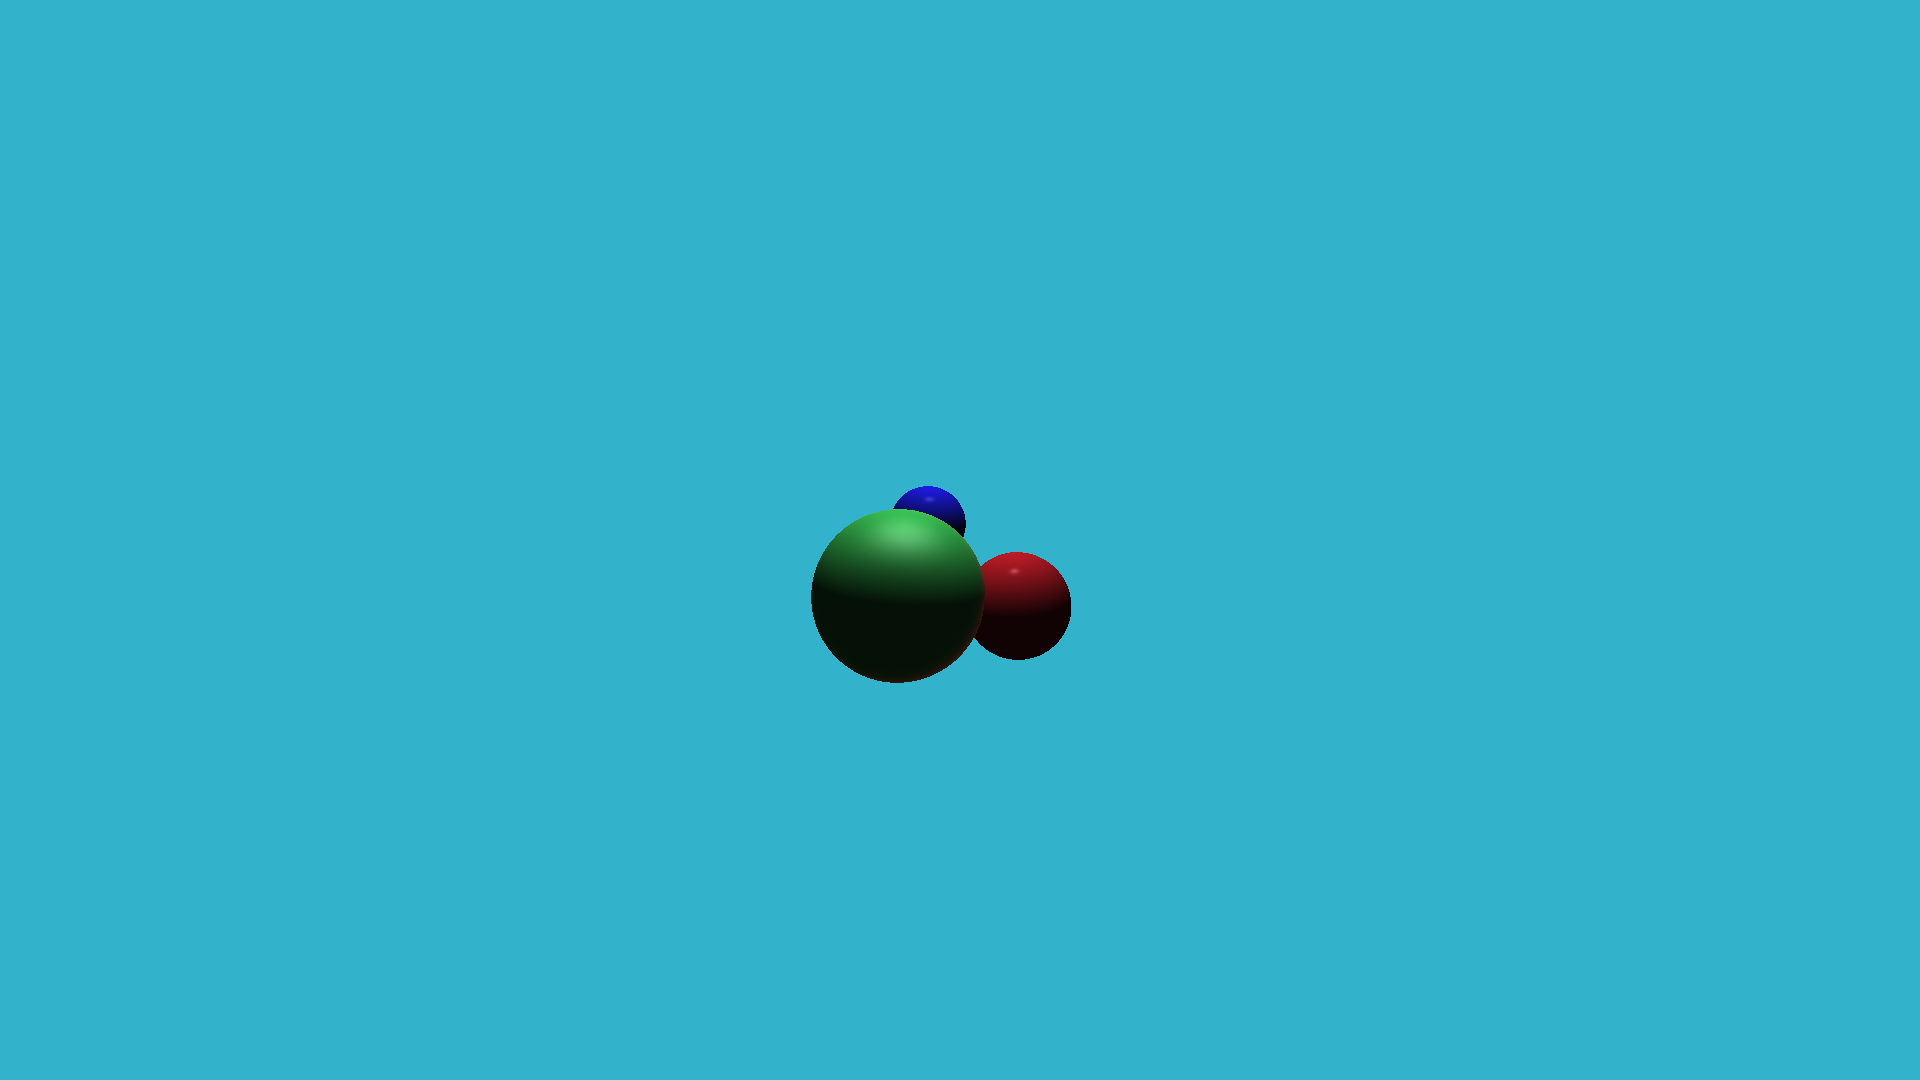
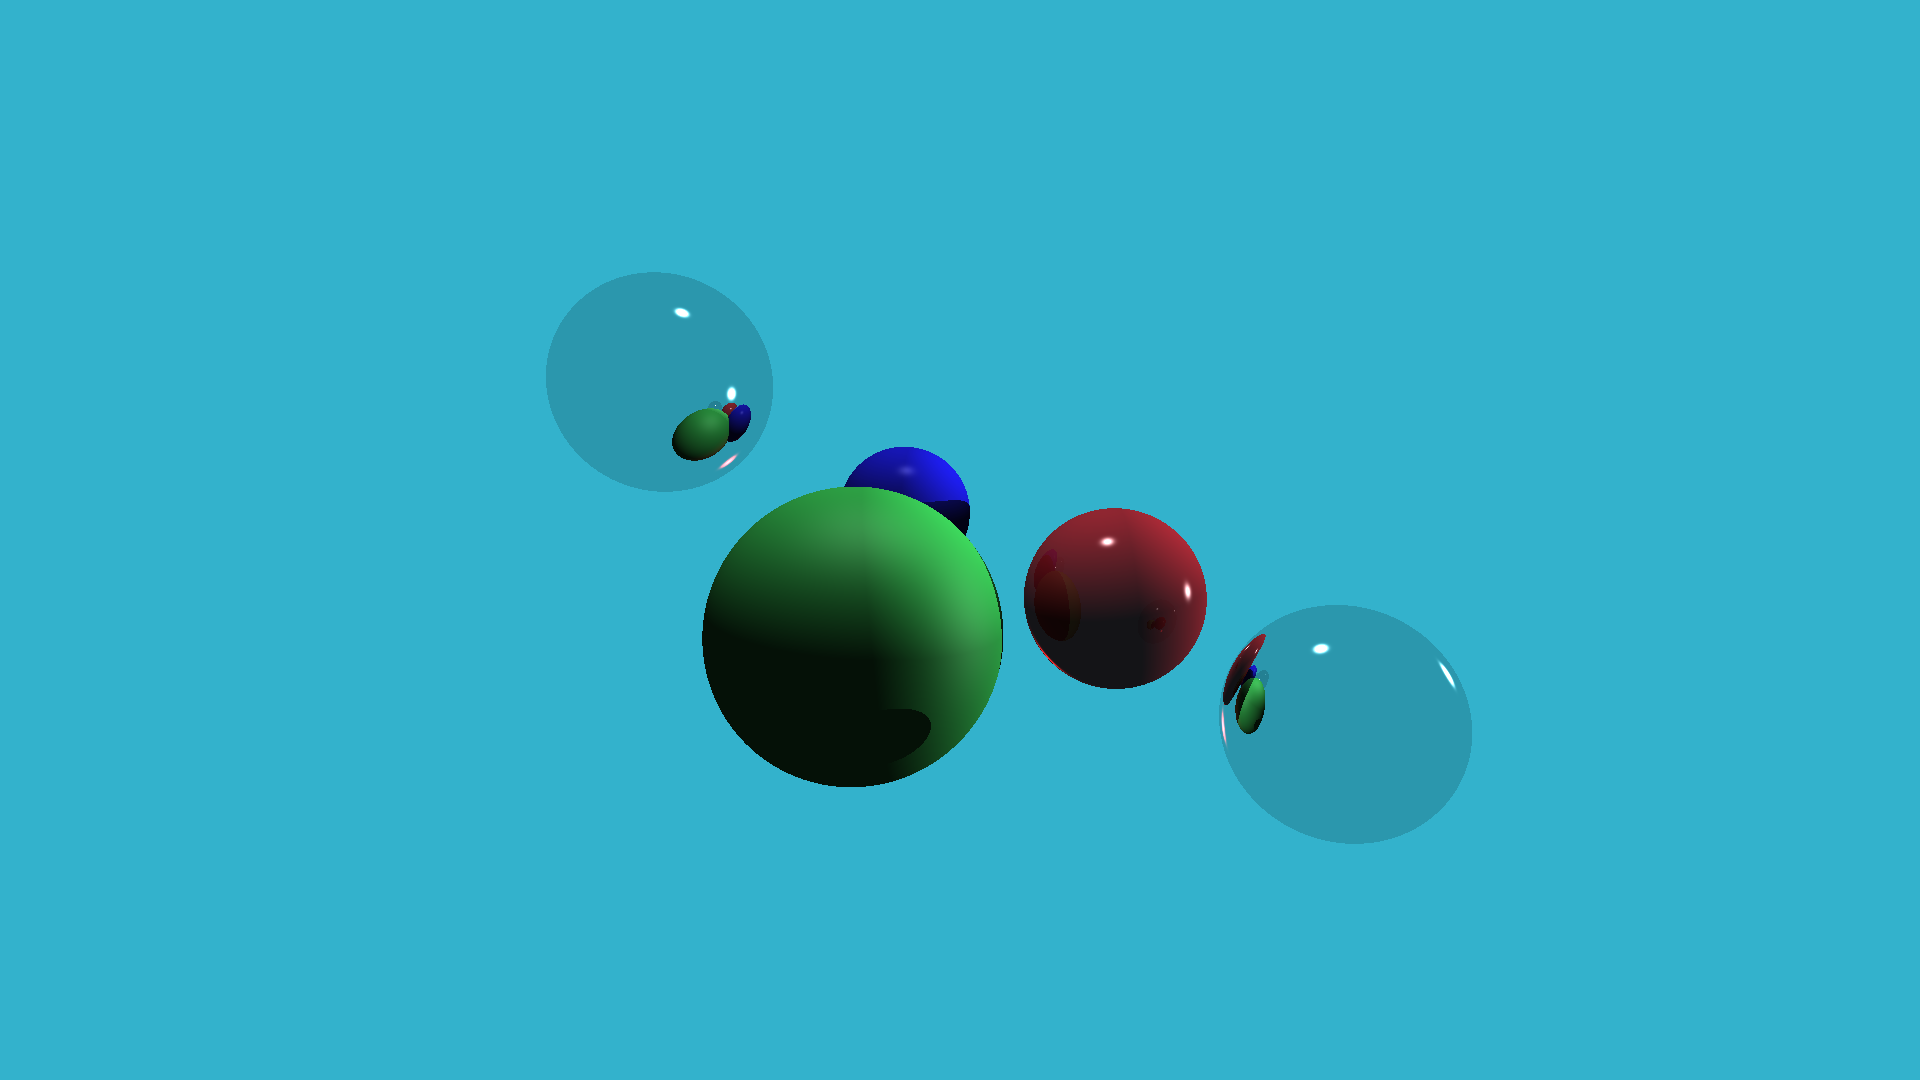
reflections

Changed region(s): [[0.3438, 0.3972, 0.7812, 0.7944], [0.2812, 0.2444, 0.4062, 0.4583]]

diff --git a/RayTracer.cpp b/RayTracer.cpp
@@ -16,39 +16,44 @@
 
 void RayTracer::initObjects() {
     
-    Material red_surface(Vector3f(0.67f, 0.1f, 0.14f), 1.0f, 125.0f, 0.2f);
-    Material green_surface(Vector3f(0.2f, 0.7f, 0.3f), 1.0f, 5.0f, 0.2f);
-    Material blue_surface(Vector3f(0.1f, 0.1f, 0.8f), 1.0f, 60.0f, 0.15f);
+    Material red_surface(Vector3f(0.67f, 0.1f, 0.14f), 1.0f, 200.0f, 1.5f, true, 0.1f);
+    Material green_surface(Vector3f(0.2f, 0.7f, 0.3f), 1.0f, 5.0f, 0.1f, false, 0.0f);
+    Material blue_surface(Vector3f(0.1f, 0.1f, 0.8f), 1.0f, 60.0f, 0.2f, false, 0.0f);
+    Material reflector_surface(Vector3f(0.0f, 0.0f, 0.0f), 0.0f, 500.0f, 5.0f, true, 0.85f);
 
-    this->objects.push_back(Primitive(Vector3f(-0.5f, 0.2f, 0.0f), 0.33f, red_surface));
+    this->objects.push_back(Primitive(Vector3f(-0.5f, 0.2f, 0.3f), 0.33f, red_surface));
     this->objects.push_back(Primitive(Vector3f(0.3f, 0.2f, 0.0f), 0.25f, blue_surface));
     this->objects.push_back(Primitive(Vector3f(0.0f, 0.0f, -0.5f), 0.5f, green_surface));
+
+    this->objects.push_back(Primitive(Vector3f(1.2f, -0.1f, -0.36f), 0.4f, reflector_surface));
+    this->objects.push_back(Primitive(Vector3f(-1.3f, -0.3f, 0.27f), 0.34f, reflector_surface));
 }
 
 void RayTracer::initCameras() {
 
-    Camera camera1(Vector3f(0.0f, 0.0f, 1.0f),
+    Camera camera1(Vector3f(0.0f, 0.0f, 2.0f),
                    Vector3f(0.0f, 0.0f, 0.0f),
-                   degreesToRadians(90.0f));
+                   degreesToRadians(60.0f));
 
     this->cameras.push_back(camera1);
 
     Camera camera2(Vector3f(-1.0f, -3.0f, -1.0f),
                    Vector3f(0.0f, 0.0f, 0.0f),
-                   degreesToRadians(90.0f));
+                   degreesToRadians(60.0f));
 
     this->cameras.push_back(camera2);
 
     Camera camera3(Vector3f(-1.0f, 3.0f, -2.0f),
         Vector3f(0.0f, 0.0f, 0.0f),
-        degreesToRadians(90.0f));
+        degreesToRadians(60.0f));
 
     this->cameras.push_back(camera3);
 }
 
 void RayTracer::initLights() {
-    this->lights.push_back(Light(Vector3f(2.0f, -2.0f, 2.0f), 1.0f, Vector3f(1.0f, 1.0f, 1.0f)));
-    this->lights.push_back(Light(Vector3f(0.0f, 3.0f, 0.0f), 1.0f, Vector3f(1.0f, 0.1f, 0.1f)));
+    this->lights.push_back(Light(Vector3f(2.0f, -2.2f, 2.0f), 0.8f, Vector3f(1.0f, 1.0f, 1.0f)));
+    this->lights.push_back(Light(Vector3f(0.0f, 3.0f, 0.0f), 0.8f, Vector3f(1.0f, 0.1f, 0.1f)));
+    this->lights.push_back(Light(Vector3f(-2.0f, 0.0f, 2.0f), 0.8f, Vector3f(1.0f, 1.0f, 1.0f)));
 }
 
 RayTracer::RayTracer(unsigned int width,
@@ -74,10 +79,11 @@ Primitive& RayTracer::detectNearestObject(const Ray& ray) {
     return objects[nearest_object_id];
 }
 
-Vector3f RayTracer::castRay(const Ray& ray) {
-    if (objects.empty()) {
-        return background_color;
-    }
+Vector3f reflect(const Vector3f& from_source, const Vector3f& normal) {
+    return (normal * 2.0f * (from_source * normal) - from_source).normalize();
+}
+
+Vector3f RayTracer::castRay(const Ray& ray, size_t depth = 0) {
 
     float distance;
     const Primitive& nearest_object = detectNearestObject(ray);
@@ -85,7 +91,7 @@ Vector3f RayTracer::castRay(const Ray& ray) {
         return background_color;
     }
 
-    Vector3f point = ray.start + ray.direction * distance;
+    Vector3f point = ray.start + ray.direction * (distance - EPS);
     Vector3f normal = nearest_object.figure->getNormal(ray.start, ray.direction, distance);
     Vector3f view_dir = -ray.direction;
 
@@ -95,23 +101,55 @@ Vector3f RayTracer::castRay(const Ray& ray) {
     Vector3f specular(0.0f, 0.0f, 0.0f);
 
     for (size_t i = 0; i < lights.size(); ++i) {
+
+        Vector3f light_segment = point - lights[i].position;
         Vector3f light_dir = (lights[i].position - point).normalize();
+
+        float distance = sqrtf(light_segment * light_segment);
+        float intersect_dist = std::numeric_limits<float>::max();
+
+        bool in_shadow = false;
+
+        for (size_t j = 0; j < objects.size(); j++) {
+            objects[j].figure->processRayIntersect(lights[i].position, -light_dir, intersect_dist);
+
+            if (intersect_dist < distance) {
+                in_shadow = true;
+                break;
+            }
+        }
+
+        if (in_shadow) continue;
+
 
         float diff_intensity = std::max(0.0f, light_dir * normal);
         
-        Vector3f reflect_dir = (normal * 2.0f * (normal * light_dir) - light_dir).normalize();
+        Vector3f reflect_dir = reflect(light_dir, normal);
         float spec_intensity = std::pow(std::max(0.0f, reflect_dir * view_dir), nearest_object.material.specular_power);
 
         diffuse += lights[i].color * lights[i].intensity * diff_intensity;
         specular += lights[i].color * lights[i].intensity * spec_intensity;
     }
 
-    Vector3f result_color =
-        ambient +
-        compMult(nearest_object.material.color, diffuse) * nearest_object.material.k_diffuse +
-        specular * nearest_object.material.k_specular;
+    Vector3f result_ambient = ambient;
+    Vector3f result_diffuse = compMult(nearest_object.material.color, diffuse) * nearest_object.material.k_diffuse;
+    Vector3f result_specular = specular * nearest_object.material.k_specular;
 
-    return result_color;
+
+    if (nearest_object.material.reflector && depth < REFLECTION_DEPTH) {
+        Vector3f reflect_dir = reflect(-ray.direction, normal);
+
+        Vector3f reflect_color = castRay(Ray(point, reflect_dir), depth + 1);
+
+        Vector3f result_color;
+        result_color += (result_ambient + result_diffuse) * (1 - nearest_object.material.k_reflective);
+        result_color += result_specular;
+        result_color += reflect_color * nearest_object.material.k_reflective;
+        
+        return result_color;
+    }
+
+    return result_ambient + result_diffuse + result_specular;
 }
 
 

diff --git a/Material.cpp b/Material.cpp
@@ -2,9 +2,18 @@
 
 #include "geometry.hpp"
 
-Material::Material(const Vector3f& color, float k_diffuse, float specular_power, float k_specular) {
+Material::Material(
+	const Vector3f& color,
+	float k_diffuse,
+	float specular_power,
+	float k_specular,
+	bool reflector,
+	float k_reflective)
+{
 	this->color = color;
 	this->k_diffuse = k_diffuse;
 	this->specular_power = specular_power;
 	this->k_specular = k_specular;
+	this->reflector = reflector;
+	this->k_reflective = k_reflective;
 }

diff --git a/geometry.hpp b/geometry.hpp
@@ -5,6 +5,11 @@
 #include <vector>
 #include <cassert>
 
+// ==================== Constants ====================
+
+constexpr float PI = 3.14159265f;
+constexpr float EPS = 0.001f;
+
 // ==================== Vectors ====================
 
 template <size_t dimension, typename T>
@@ -253,8 +258,6 @@ T clamp(T f1, T f2, T f3) {
     }
     return f1;
 }
-
-constexpr float PI = 3.14159265f;
 
 inline float degreesToRadians(float degrees) {
     return degrees * PI / 180.0f;

diff --git a/Material.hpp b/Material.hpp
@@ -10,6 +10,15 @@ struct Material {
 	float specular_power; // sharpness
 	float k_specular;
 
+	bool reflector;
+	float k_reflective;
+
 	Material() = default;
-	Material(const Vector3f& color, float k_diffuse, float specular_power, float k_specular);
+	Material(
+		const Vector3f& color,
+		float k_diffuse,
+		float specular_power,
+		float k_specular,
+		bool reflector,
+		float k_reflective);
 };

diff --git a/RayTracer.hpp b/RayTracer.hpp
@@ -21,9 +21,11 @@ private:
 	Vector3f ambient_light = Vector3f(0.1f, 0.1f, 0.1f);
 	Vector3f background_color = Vector3f(0.2f, 0.7f, 0.8f);
 
+	const size_t REFLECTION_DEPTH = 10;
+
 private:
 	Primitive& detectNearestObject(const Ray& ray);
-	Vector3f castRay(const Ray& ray);
+	Vector3f castRay(const Ray& ray, size_t depth);
 
 	void initObjects();
 	void initCameras();
